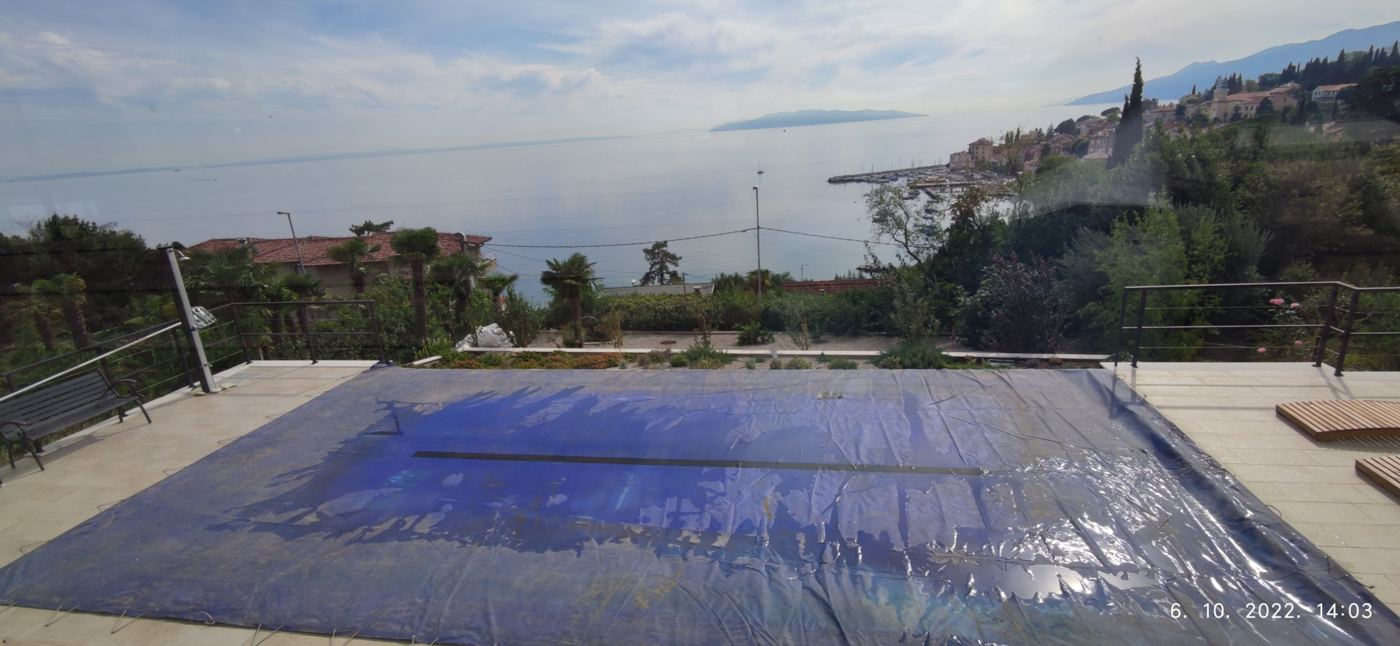
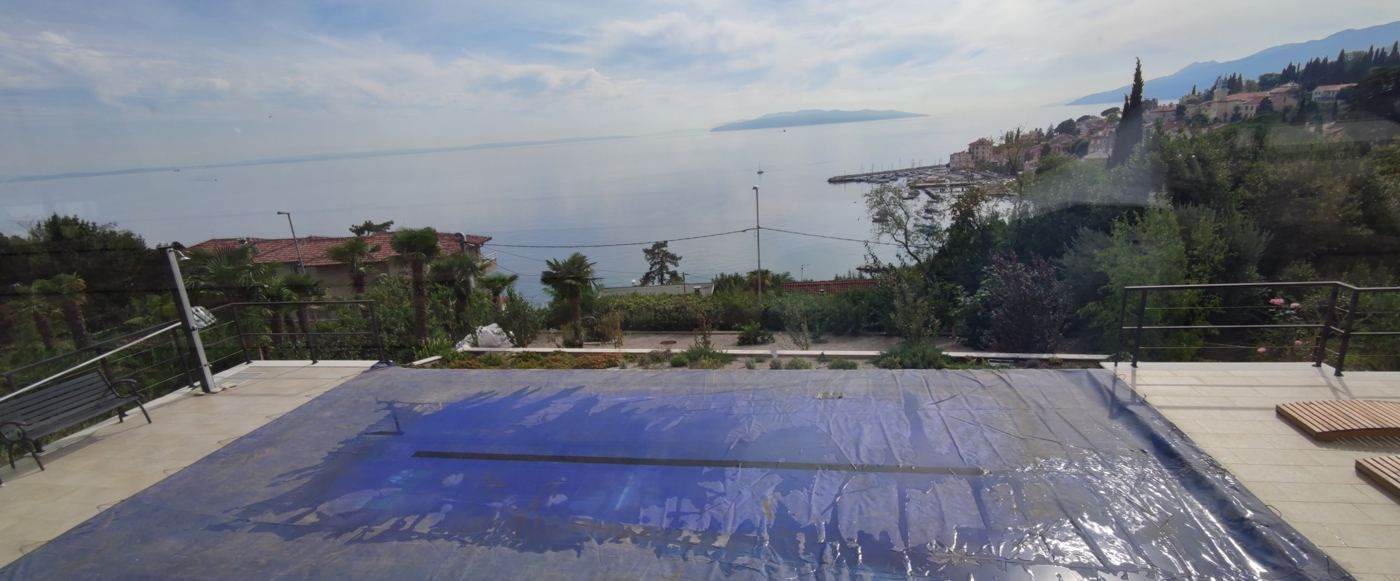
Bez datuma izrade: maknuti datumi iz opisa projekata i utisnuti datumi s fotografija
Claude-Session: https://claude.ai/code/session_01ApPbRkyBezaKELLNANXPbm

diff --git a/public/mondo-web/index.html b/public/mondo-web/index.html
@@ -993,7 +993,7 @@ $set('maintList1', mHtml);
 document.getElementById('maintList2').innerHTML = mHtml;
 
 const S = f => f.includes('/') ? f : 'slike/' + f + '.jpg';
-const PROJ={"kur": [{"t": "Kompozitna školjka, ključ u ruke", "k": "Kvarner · studeni 2022.", "d": "Iskop u kamenu, ploča i podloga, a sama školjka ugrađena u jednom danu.", "s": [["slike/r/343.jpg", "Iskop"], ["slike/r/340.jpg", "Strojni iskop u kamenu"], ["slike/r/0.jpg", "Školjka stiže prikolicom"], ["slike/r/341.jpg", "Istovar dizalicom"], ["slike/r/282.jpg", "Školjka na pripremljenoj podlozi"], ["slike/r/smg-napunjen.jpg", "Školjka zatrpana i napunjena"]]}, {"t": "Kompozitni bazen na kamenitoj padini", "k": "Kvarner", "d": "Iskop u stijeni, školjka na šljunčanoj podlozi, potporni zidovi i drvena terasa od daske.", "s": [["slike/r/196.jpg", "Pristup strojem"], ["slike/r/28.jpg", "Iskop pikamerom"], ["slike/r/65.jpg", "Iskop u kamenu"], ["slike/r/255.jpg", "Iskop gotov"], ["slike/r/302.jpg", "Školjka u iskopu"], ["slike/r/183.jpg", "Školjka ugrađena"], ["slike/r/40.jpg", "Terasa od daske"], ["slike/r/294.jpg", "Gotov bazen"]]}, {"t": "Betonski bazen u stijeni iznad mora", "k": "Kvarner · listopad i studeni 2022.", "d": "Armatura dna s cijevima i podnim odvodima, zatim zidovi s ugradnim dijelovima.", "s": [["slike/r/330.jpg", "Armatura dna"], ["slike/r/344.jpg", "Armatura uz oplatu"], ["slike/r/328.jpg", "Cijevi i podni odvodi"], ["slike/r/345.jpg", "Mlaznice i rasvjeta u zidu"], ["slike/r/346.jpg", "Oplata zidova"], ["slike/r/327.jpg", "Oplata iznutra"]]}], "fp": [{"t": "Pravokutni FP sa zaobljenim kutovima", "k": "Od montaže do gotovog bazena", "d": "Čelični zid i folija na pripremljenoj ploči, zatim rubni kamen, popločenje i okoliš.", "s": [["slike/r/16.jpg", "Montaža i folija"], ["slike/r/fp-pravokutni-gotov.jpg", "Gotov bazen"]]}, {"t": "Ovalni FP s mozaik folijom", "k": "Montaža", "d": "Postavljanje folije i obzidavanje.", "s": [["slike/r/21.jpg", "Postavljanje folije"], ["slike/r/22.jpg", "Obzidavanje blokom"]]}]};
+const PROJ={"kur": [{"t": "Kompozitna školjka, ključ u ruke", "k": "Kvarner", "d": "Iskop u kamenu, ploča i podloga, a sama školjka ugrađena u jednom danu.", "s": [["slike/r/343.jpg", "Iskop"], ["slike/r/340.jpg", "Strojni iskop u kamenu"], ["slike/r/0.jpg", "Školjka stiže prikolicom"], ["slike/r/341.jpg", "Istovar dizalicom"], ["slike/r/282.jpg", "Školjka na pripremljenoj podlozi"], ["slike/r/smg-napunjen.jpg", "Školjka zatrpana i napunjena"]]}, {"t": "Kompozitni bazen na kamenitoj padini", "k": "Kvarner", "d": "Iskop u stijeni, školjka na šljunčanoj podlozi, potporni zidovi i drvena terasa od daske.", "s": [["slike/r/196.jpg", "Pristup strojem"], ["slike/r/28.jpg", "Iskop pikamerom"], ["slike/r/65.jpg", "Iskop u kamenu"], ["slike/r/255.jpg", "Iskop gotov"], ["slike/r/302.jpg", "Školjka u iskopu"], ["slike/r/183.jpg", "Školjka ugrađena"], ["slike/r/40.jpg", "Terasa od daske"], ["slike/r/294.jpg", "Gotov bazen"]]}, {"t": "Betonski bazen u stijeni iznad mora", "k": "Kvarner", "d": "Armatura dna s cijevima i podnim odvodima, zatim zidovi s ugradnim dijelovima.", "s": [["slike/r/330.jpg", "Armatura dna"], ["slike/r/344.jpg", "Armatura uz oplatu"], ["slike/r/328.jpg", "Cijevi i podni odvodi"], ["slike/r/345.jpg", "Mlaznice i rasvjeta u zidu"], ["slike/r/346.jpg", "Oplata zidova"], ["slike/r/327.jpg", "Oplata iznutra"]]}], "fp": [{"t": "Pravokutni FP sa zaobljenim kutovima", "k": "Od montaže do gotovog bazena", "d": "Čelični zid i folija na pripremljenoj ploči, zatim rubni kamen, popločenje i okoliš.", "s": [["slike/r/16.jpg", "Montaža i folija"], ["slike/r/fp-pravokutni-gotov.jpg", "Gotov bazen"]]}, {"t": "Ovalni FP s mozaik folijom", "k": "Montaža", "d": "Postavljanje folije i obzidavanje.", "s": [["slike/r/21.jpg", "Postavljanje folije"], ["slike/r/22.jpg", "Obzidavanje blokom"]]}]};
 const FPF=[["slike/r/98.jpg", "Polaganje folije"], ["slike/r/173.jpg", "Folija u ovalnom zidu"], ["slike/r/67.jpg", "Ovalni zid prije folije"], ["slike/r/122.jpg", "Punjenje"], ["slike/r/220.jpg", "Postavljanje folije"], ["slike/r/314.jpg", "Pravokutni FP, punjenje"], ["slike/r/311.jpg", "Obzidavanje"]];
 const BET=[["slike/r/320.jpg", "Armatura ploče"], ["slike/r/150.jpg", "Armatura i rubovi"], ["slike/r/221.jpg", "Oplata zidova"], ["slike/r/152.jpg", "Zidovi s izolacijom"], ["slike/r/138.jpg", "Zidovi i strojarnica"]];
 const KOM=[["slike/r/160.jpg", "Podloga i izolacija"], ["slike/r/57.jpg", "Školjka na dizalici"], ["slike/r/62.jpg", "Školjka u iskopu"], ["slike/r/257.jpg", "Iskop"], ["slike/r/88.jpg", "Školjka u betonskom okviru"]];
